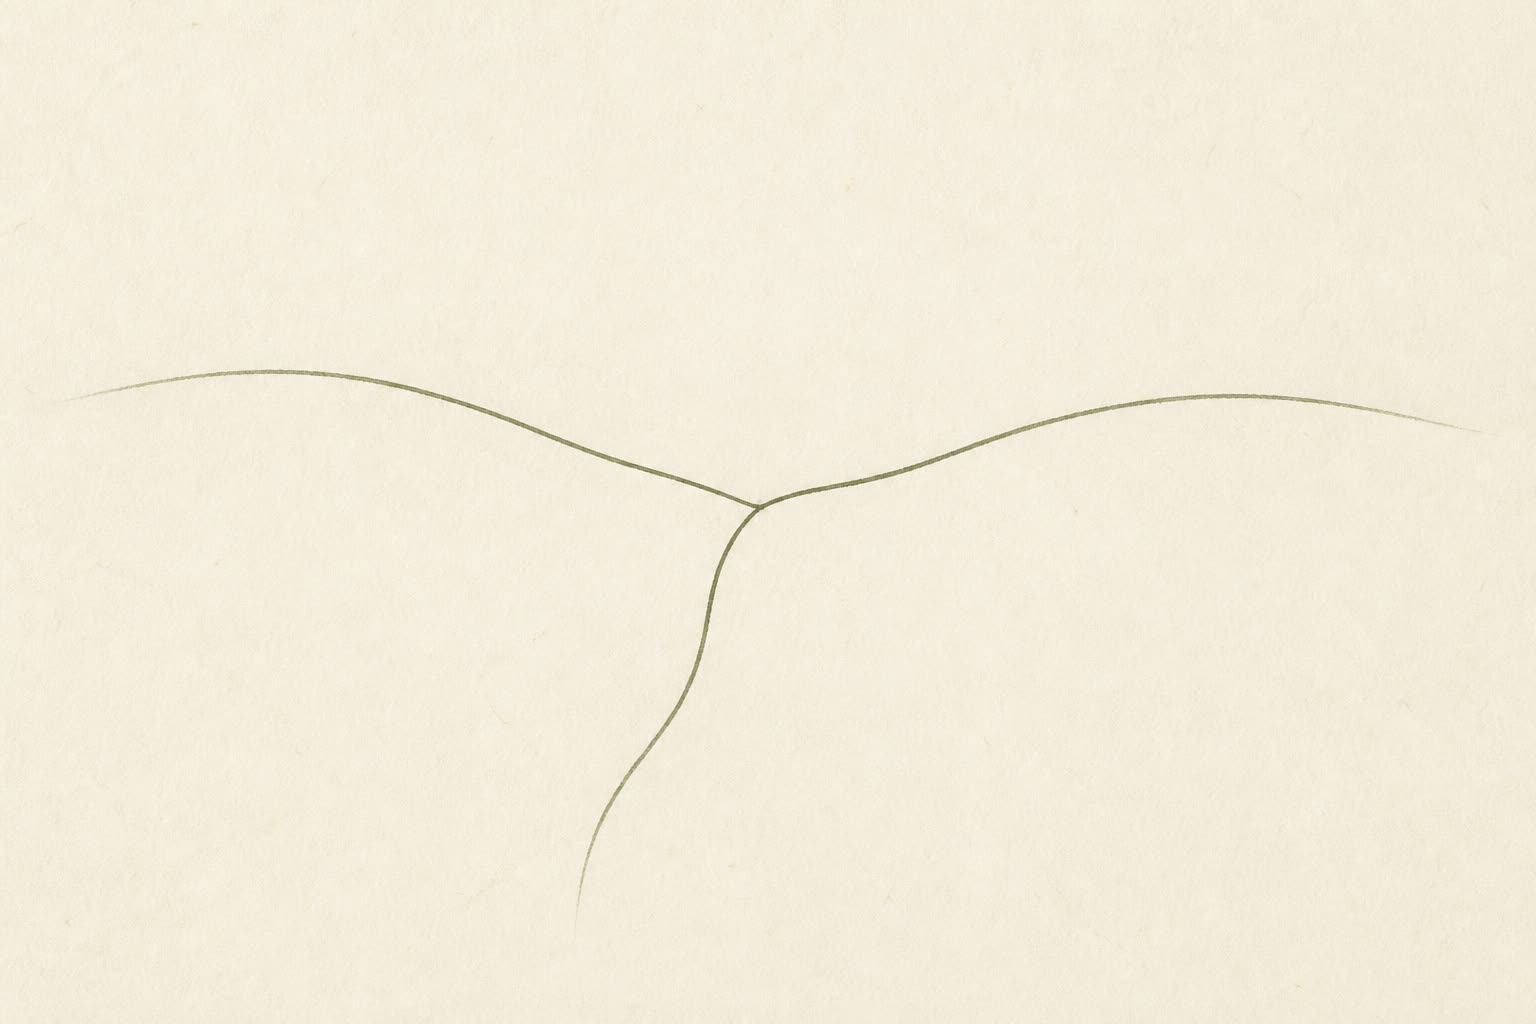
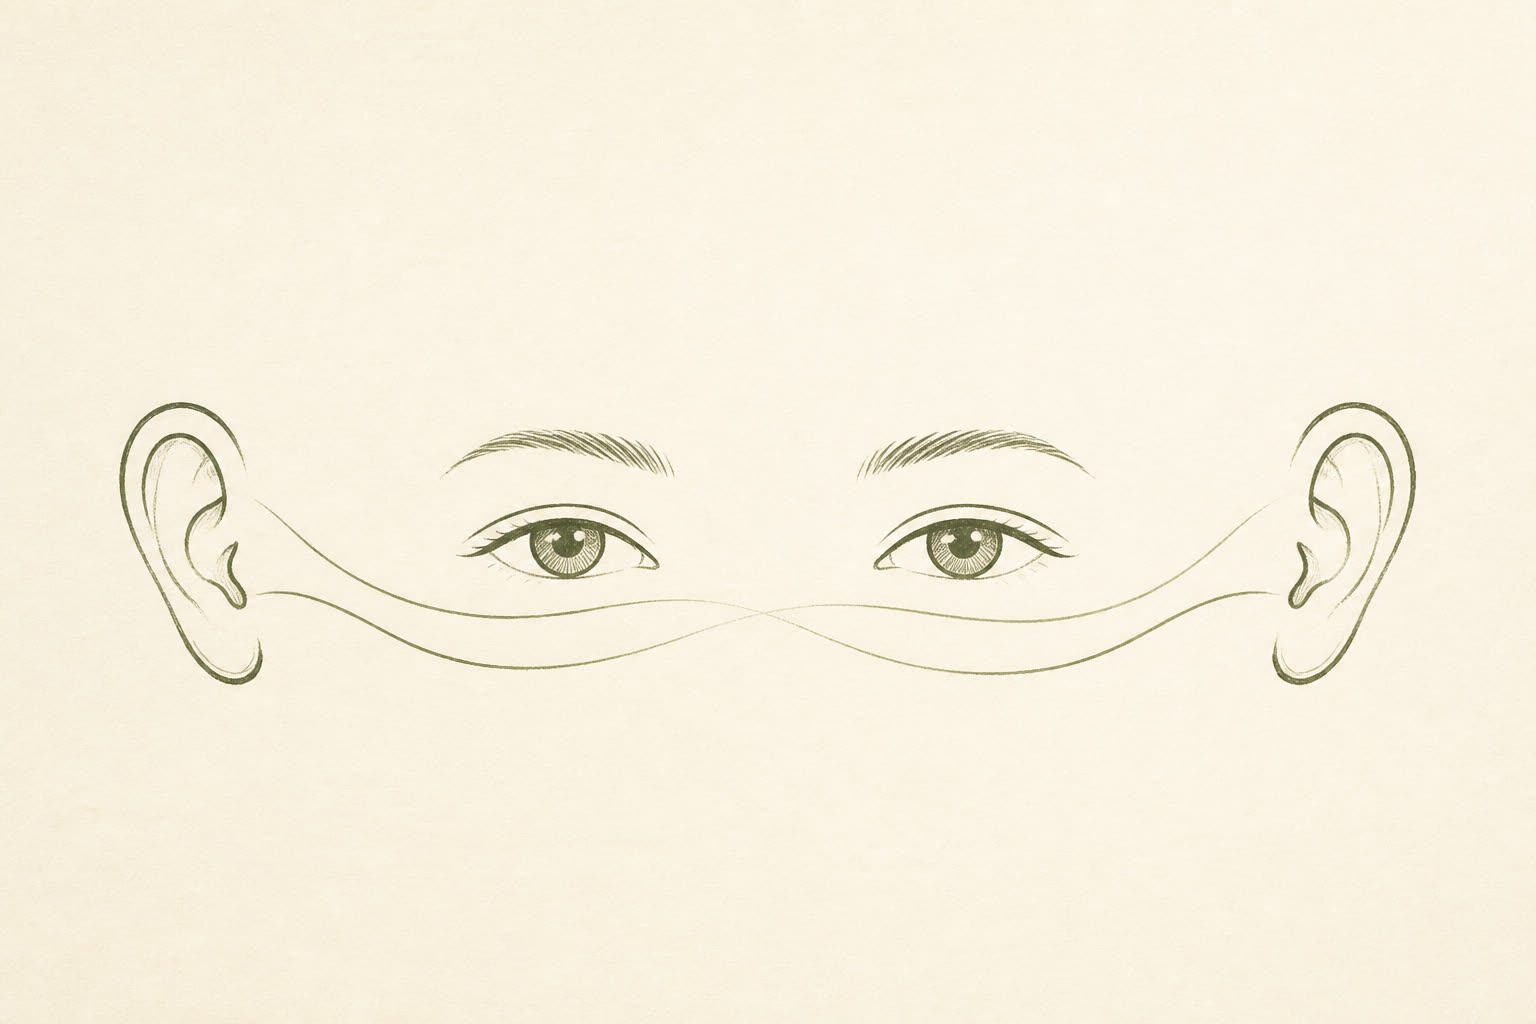
Update connect illustration

diff --git a/connect/index.html b/connect/index.html
@@ -102,7 +102,7 @@
   <div class="header-line"></div>
 
   <main class="connect-shell">
-    <img class="connect-image" src="../uploads/connect-connection.jpg" alt="Abstract olive lines meeting on warm paper to represent connection." width="1536" height="1024">
+    <img class="connect-image" src="../uploads/connect-connection.jpg" alt="Minimal olive line drawing of eyes and ears on warm paper to represent seeing, listening, and connection." width="1536" height="1024">
   </main>
 
   <footer id="connect" class="site-footer">
